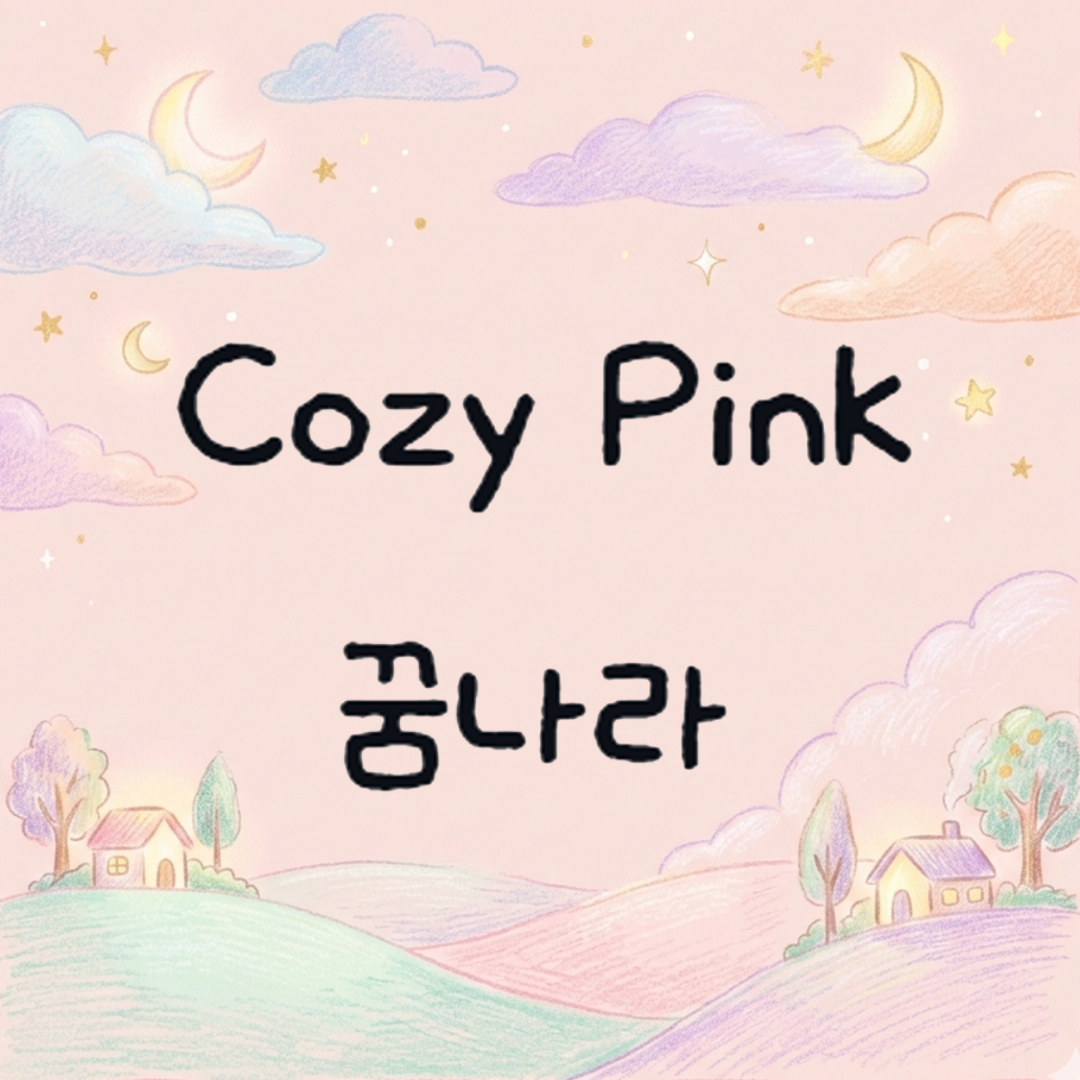
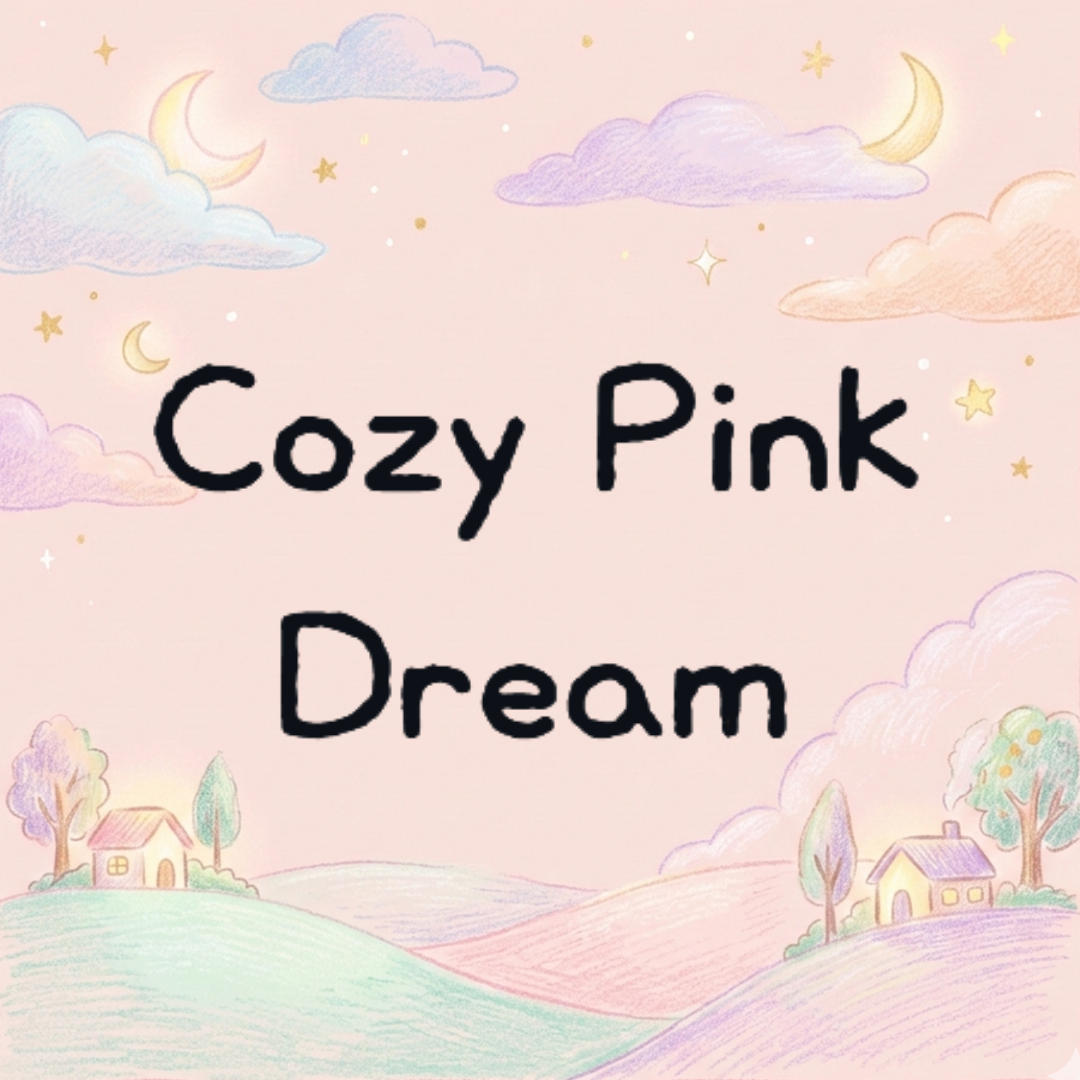
[2026.03.06.금] : 아이템 추가

Changed region(s): [[0.2444, 0.55, 0.7333, 0.7333], [0.1222, 0.3056, 0.5194, 0.5194], [0.55, 0.3056, 0.8556, 0.4583]]

diff --git a/FashionGame_MyStyle/style_item_card.css b/FashionGame_MyStyle/style_item_card.css
@@ -78,19 +78,19 @@
 /* # 신발 */
 .item-card.shoes img {
     transform-origin: center 100%;
-    transform: scale(4.0);
+    transform: scale(3.0);
 }
 .item-card.shoes:hover img {
-    transform: scale(4.5);
+    transform: scale(3.5);
 }
 
 /* # 머리띠 */
 .item-card.hair-band img {
-    object-position: center 10%;
-    transform: scale(1.9);
+    object-position: center 0%;
+    transform: scale(1.0);
 }
 .item-card.hair-band:hover img {
-    transform: scale(2.2);
+    transform: scale(1.5);
 }
 
 /* # 목걸이 */

diff --git a/FashionGame_MyStyle/data/theme_data.js b/FashionGame_MyStyle/data/theme_data.js
@@ -1,8 +1,8 @@
 export const THEME_DATA = [
     {
-        id: "Cozy Pink 꿈나라",
+        id: "Cozy Pink Dream",
         name: "theme_001",
         thumb: "assets/theme/theme_001.png",
-        items: ["dress_001.png", "dress_002.png", "shoes_002.png",]
+        items: ["dress_001.png", "dress_002.png", "shoes_002.png", "shoes_003.png", "hair-band_001.png"]
     },
 ];
